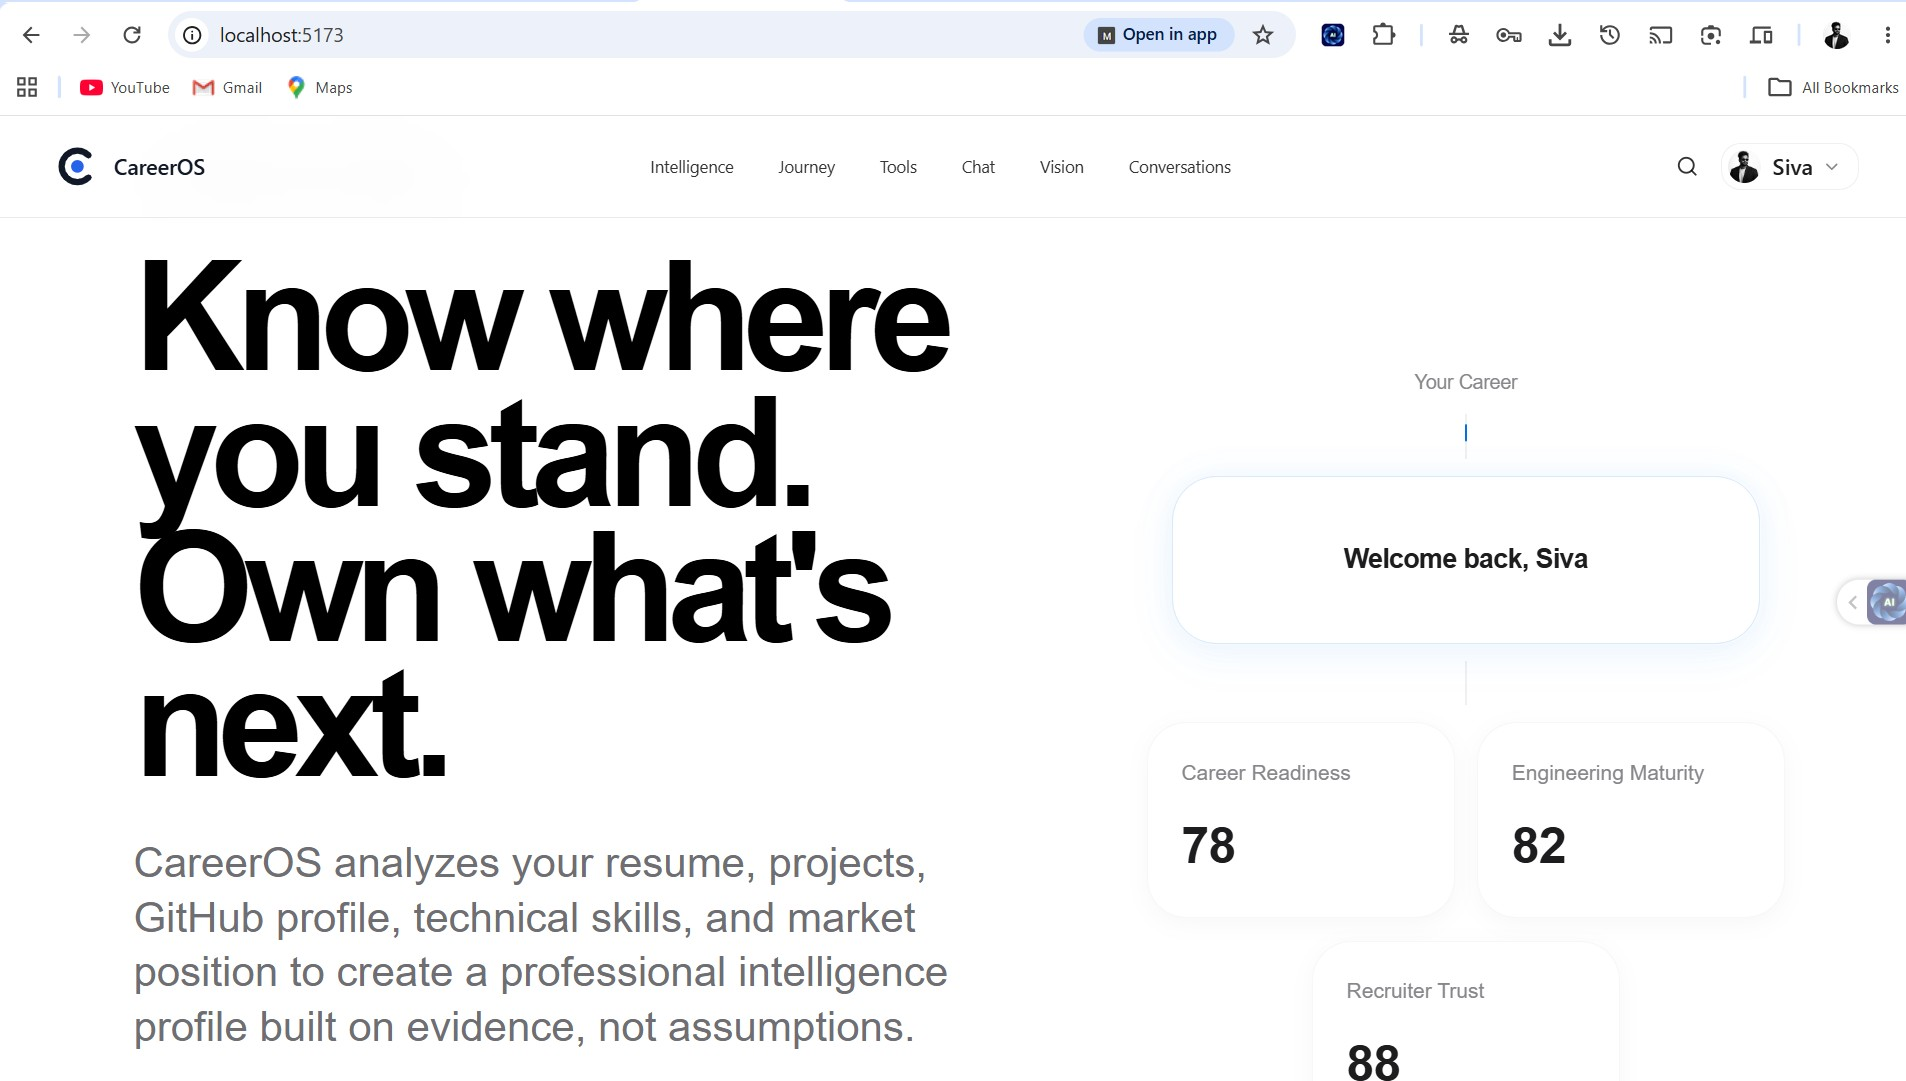
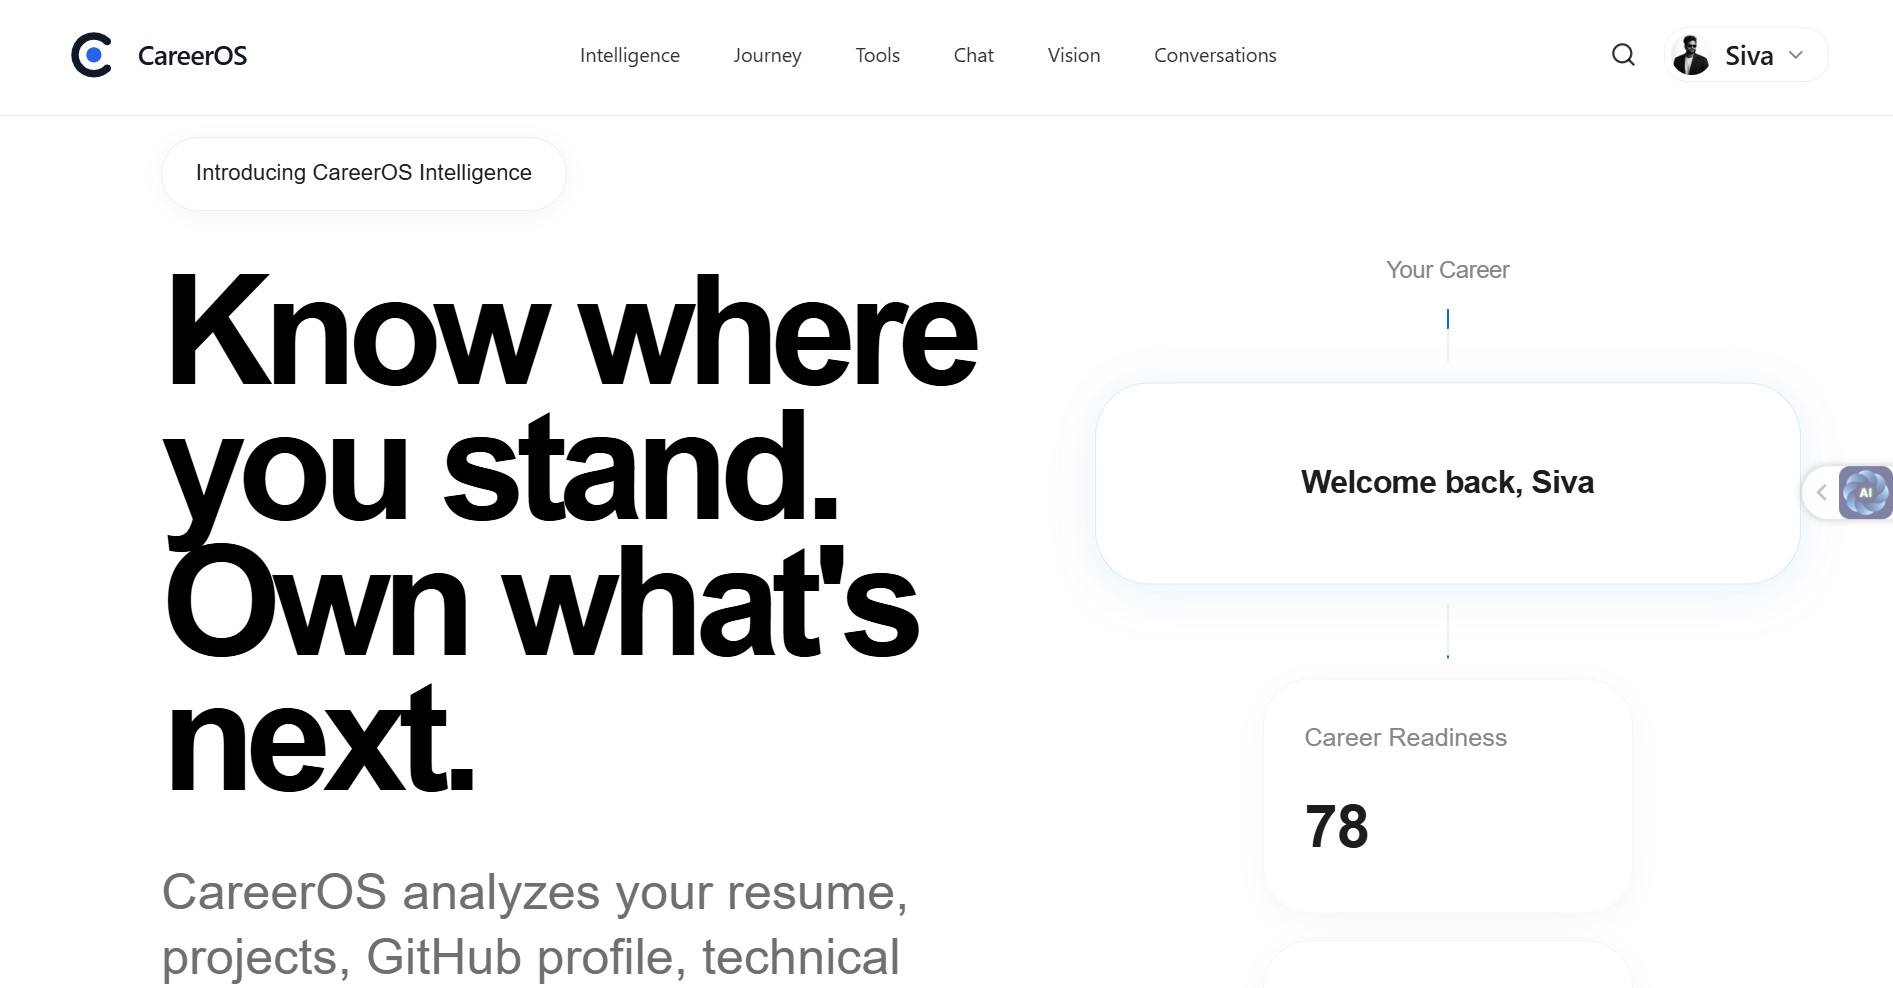
final portfolio version 2.0

diff --git a/src/pages/Work.jsx b/src/pages/Work.jsx
@@ -4,7 +4,6 @@ import "../styles/Work.css";
 
 // ─── Images ───────────────────────────────────────────────────────────────────
 import careerOSImg   from "../assets/careeros-new.jpg";
-import resumeImg     from "../assets/resume.jpg";
 import chatImg       from "../assets/aurabot-new.png";
 import heartImg      from "../assets/heart-new.png";
 import leaveImg      from "../assets/leave.jpg";
@@ -69,41 +68,32 @@ const HOW_STEPS = [
 
 // ─── Secondary projects (real data — no exaggeration) ─────────────────────────
 const SECONDARY_PROJECTS = [
- {
-  name: "ResumeAI",
-  eyebrow: "Career Technology",
-  year: "2025",
-  img: resumeImg,
-  desc: "An intelligent resume platform that helps candidates create professional resumes, evaluate ATS compatibility, and improve job application performance through real-time analysis and personalized recommendations.",
-  role: "Founder & Full Stack Developer",
-  tech: [
-    "React",
-    "Node.js",
-    "Express",
-    "MongoDB",
-    "JWT",
-    "Google OAuth",
-    "REST APIs"
-  ],
-  learning: "Architected a complete full-stack application, implementing secure authentication, scalable API design, resume intelligence workflows, and data-driven user experiences.",
-  github: "https://github.com/bhagavan444/Resumebuilderwebapp",
-}, 
 {
-  name: "AuraBot",
-  eyebrow: "Artificial Intelligence",
+  name: "AuraOS",
+  eyebrow: "Personal Intelligence OS",
   year: "2025",
   img: chatImg,
-  desc: "AuraBot reimagines human–AI interaction through a seamless conversational experience powered by advanced language models. Designed with a focus on intelligence, security, and responsiveness, it transforms complex AI capabilities into natural, intuitive conversations that feel effortless and engaging.",
+  desc: "AuraOS is an AI-powered Personal Intelligence Operating System designed to transform conversations, documents, knowledge, and memory into a unified intelligence layer. Unlike traditional chatbots that respond and forget, AuraOS continuously builds contextual understanding through persistent memory, knowledge management, retrieval-augmented intelligence, and reasoning workflows. The platform enables users to organize information, interact with intelligent knowledge systems, and develop a personalized AI companion that evolves over time.",
   role: "Founder & Product Engineer",
   tech: [
     "React",
     "Flask",
-    "Python",
-    "Gemini API",
-    "REST APIs"
+    "MongoDB",
+    "Vector Search",
+    "Google Gemini"
   ],
-  learning: "Designed and engineered a production-oriented AI application, gaining expertise in conversational AI systems, secure model integration, scalable backend architecture, API orchestration, and user-centric experience design.",
-  github: "https://github.com/bhagavan444/chatbotwebapp",
+  features: [
+    "Persistent Memory",
+    "Document Understanding",
+    "Knowledge Graph",
+    "Conversational Reasoning",
+    "Workspace Integration",
+    "Privacy-First Layer",
+    "Personalized Retrieval",
+    "Modern UX"
+  ],
+  learning: "AuraOS represents a vision for the next generation of computing, where intelligence becomes a persistent layer that learns, remembers, understands, and grows alongside its user.",
+  github: "https://github.com/bhagavan444/auraos",
 },
   {
   name: "Health Prediction",
@@ -264,7 +254,7 @@ export default function Work() {
           variants={imgReveal}
         >
           <a
-            href="https://github.com/bhagavan444/Career-Path-Recommendation"
+            href="https://github.com/bhagavan444/careeros"
             target="_blank"
             rel="noopener noreferrer"
             aria-label="CareerOS on GitHub"
@@ -382,6 +372,13 @@ export default function Work() {
                   <span className="work-detail-label">Stack</span>
                   <span className="work-detail-value">{project.tech.join(" · ")}</span>
                 </m.div>
+
+                {project.features && (
+                  <m.div className="work-detail-row" variants={fadeUp}>
+                    <span className="work-detail-label">Features</span>
+                    <span className="work-detail-value">{project.features.join(" · ")}</span>
+                  </m.div>
+                )}
 
                 <m.div className="work-detail-row" variants={fadeUp}>
                   <span className="work-detail-label">Role</span>